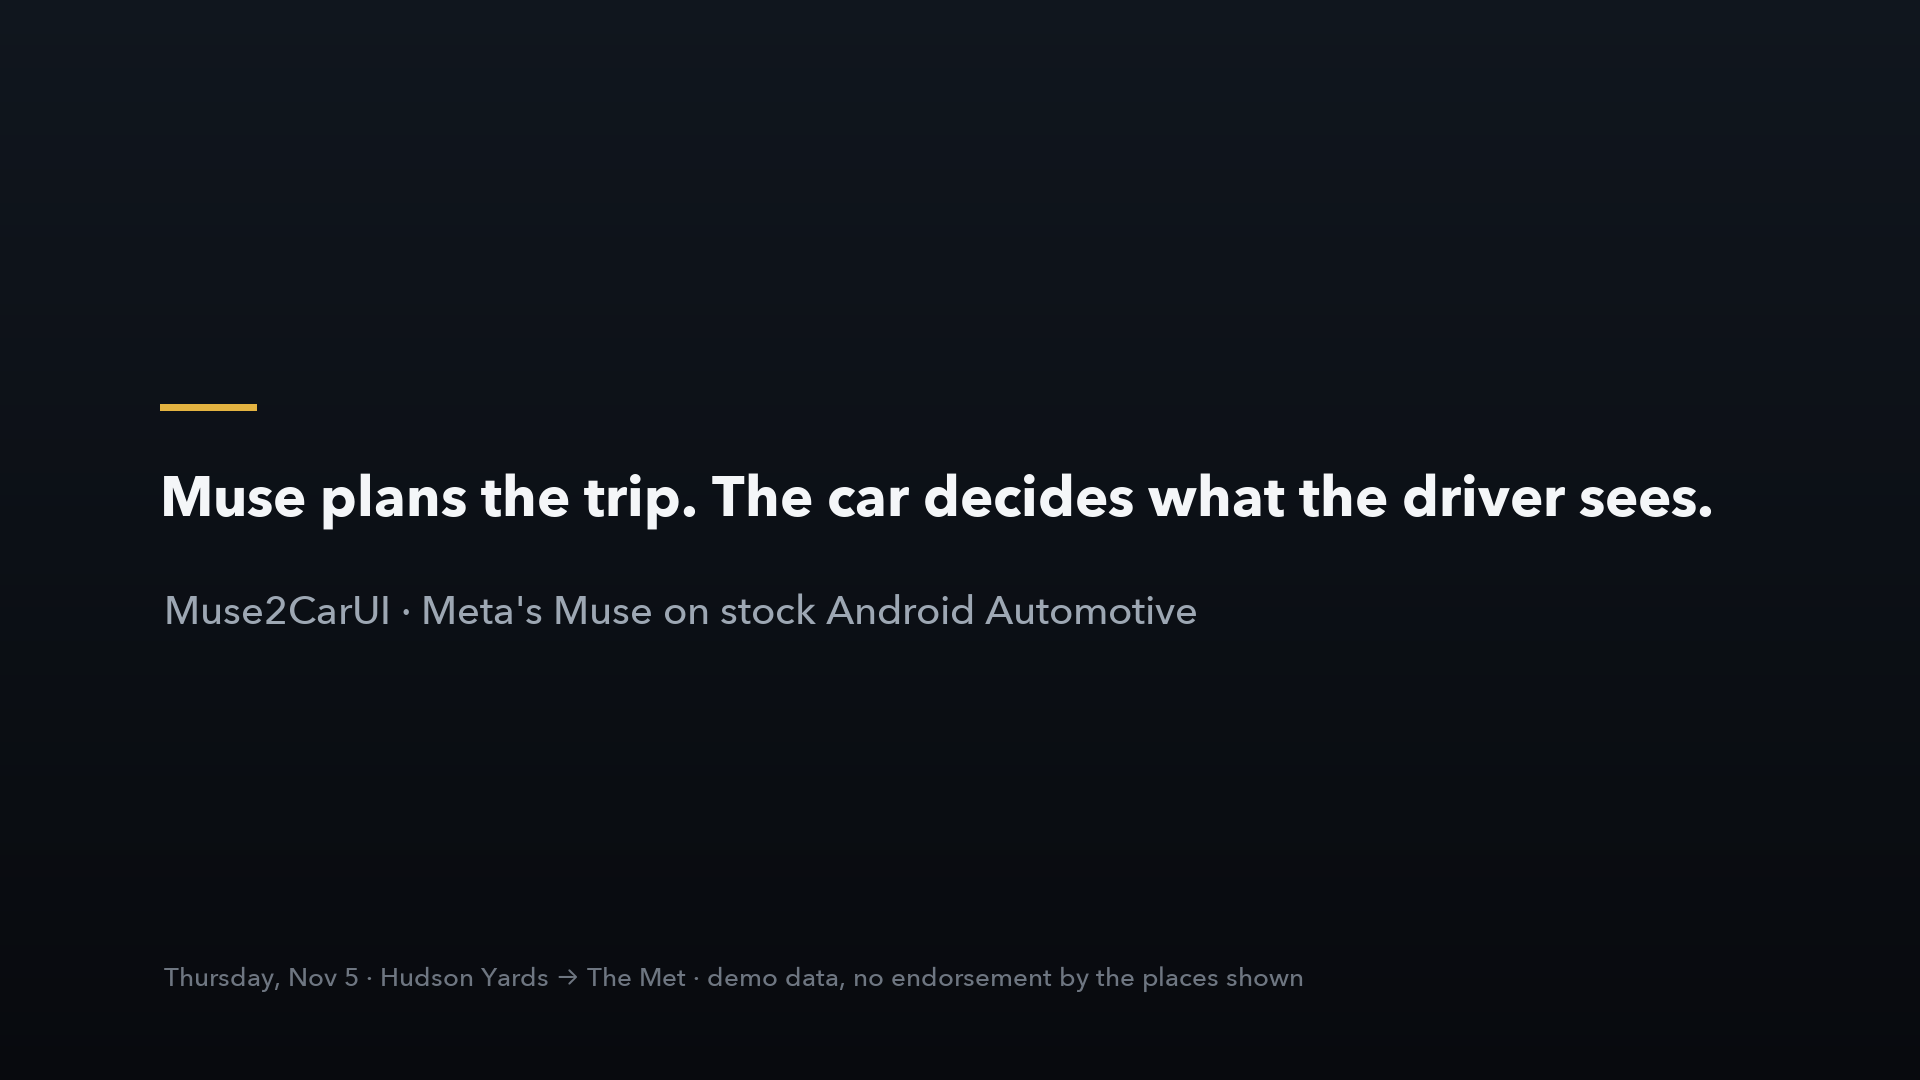
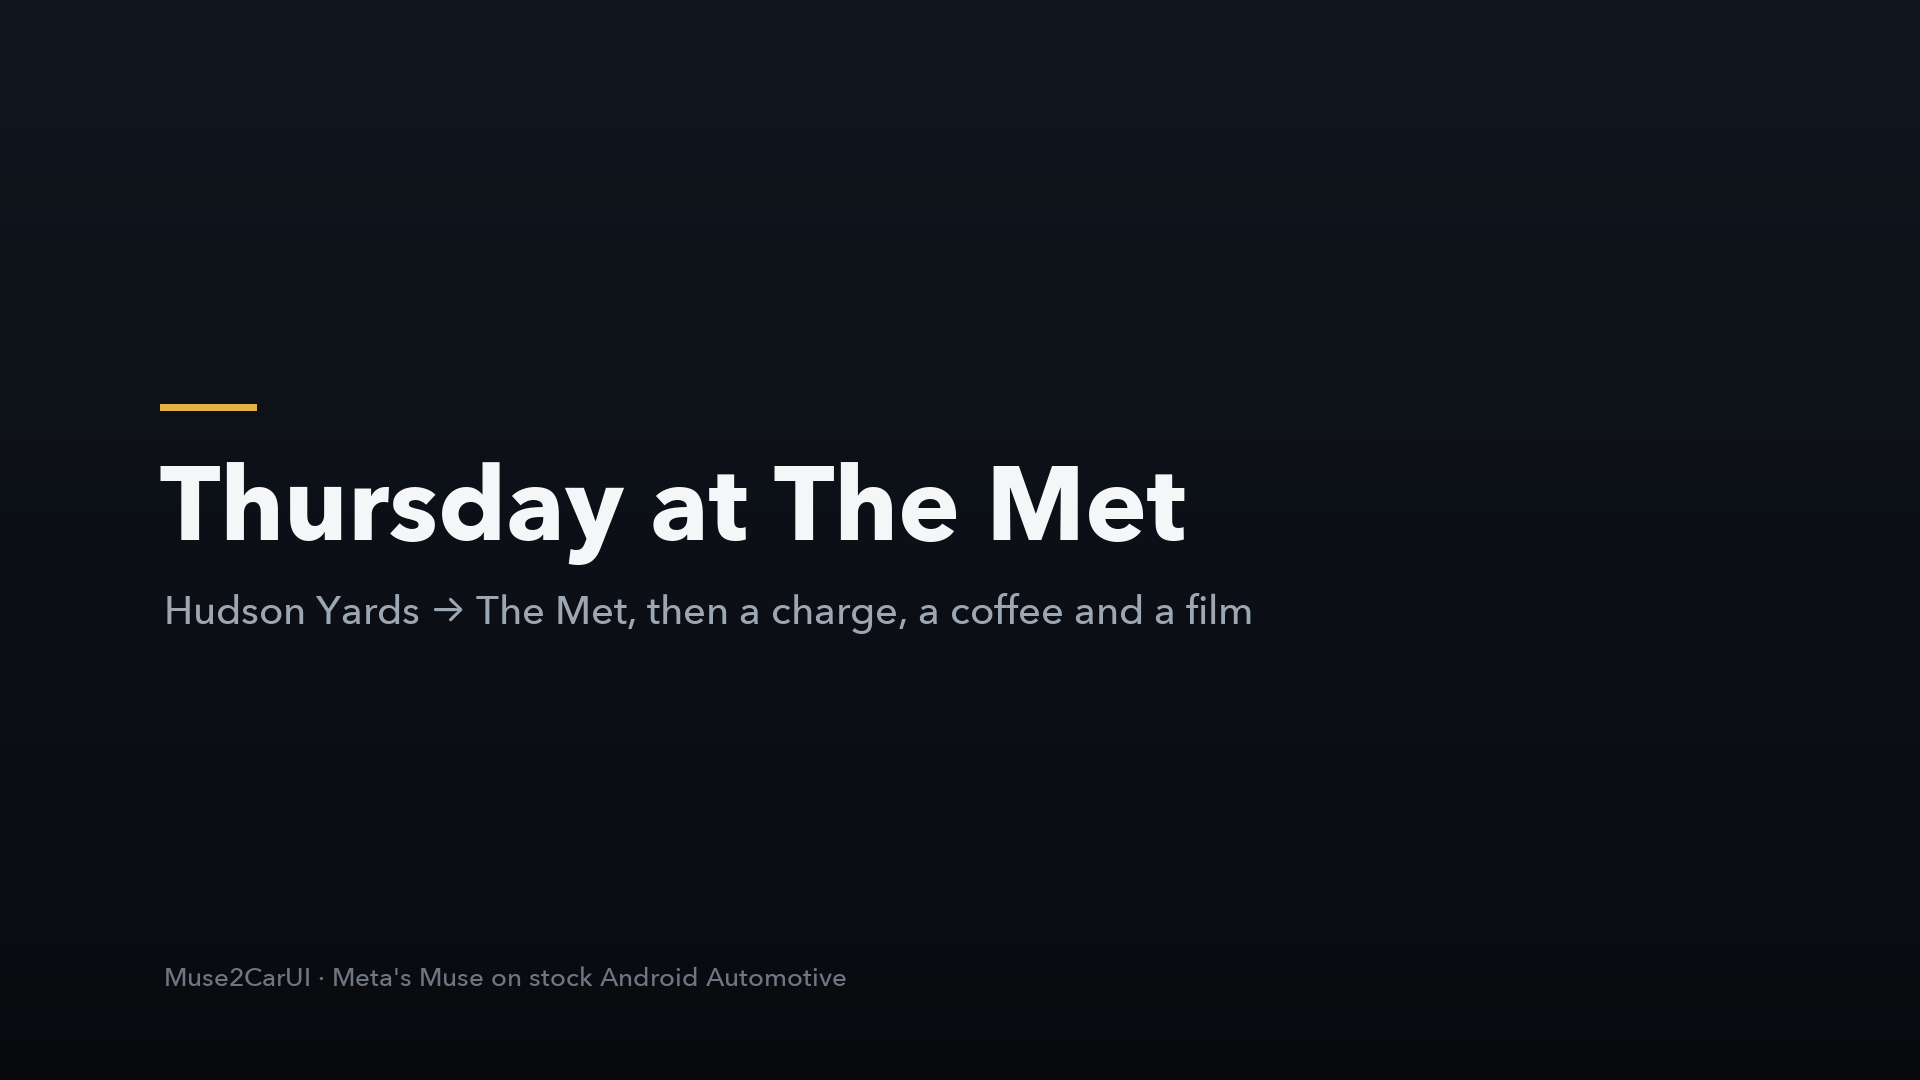
demo cards: preamble, closing diagram, disclaimer; lighter panel labels; chapter title

Changed region(s): [[0.0625, 0.4278, 0.9062, 0.5194], [0.0938, 0.8861, 0.6875, 0.9167], [0.0938, 0.55, 0.6562, 0.5806]]

diff --git a/scripts/render-demo-cards.py b/scripts/render-demo-cards.py
@@ -1,22 +1,29 @@
 #!/usr/bin/env python3
 # Copyright (C) 2026 Dart Technologies
 # Licensed under the Apache License, Version 2.0 — see scripts/check-build-coverage.py.
-"""Render the recorder's overlay PNGs: panel labels and per-scenario title cards.
+"""Render the recorder's overlay PNGs: panel labels, the corner disclaimer, title cards, and the
+preamble and outro cards it builds from frames of the recording itself.
 
-The ffmpeg used for recording may lack drawtext (no freetype), so text is rendered here once,
-committed under a2ui-automotive/demo/cards/, and overlaid as images by run-nyc-demo.py.
+The ffmpeg used for recording may lack drawtext (no freetype), so text is rendered here with
+Pillow and overlaid as images by run-nyc-demo.py. Labels, disclaimer and title cards are
+committed under a2ui-automotive/demo/cards/; preamble and outro cards are rendered per recording.
 
   render-demo-cards.py labels
+  render-demo-cards.py disclaimer --text T --out disclaimer.png
   render-demo-cards.py title --title T --subtitle S [--footer F] --out card.png
+  render-demo-cards.py preamble --style unsafe|useless|answer --caption C [--frame F]
+                                [--chip X] [--lock-text L] --out card.png
+  render-demo-cards.py outro --spec spec.json --out card.png
 """
 
 from __future__ import annotations
 
 import argparse
+import json
 import pathlib
 import sys
 
-from PIL import Image, ImageDraw, ImageFont
+from PIL import Image, ImageDraw, ImageEnhance, ImageFilter, ImageFont, ImageOps
 
 ROOT = pathlib.Path(__file__).resolve().parents[1]
 CARDS = ROOT / "a2ui-automotive/demo/cards"
@@ -24,8 +31,16 @@ FONTS = ["/System/Library/Fonts/Avenir Next.ttc",
          "/System/Library/Fonts/HelveticaNeue.ttc",
          "/usr/share/fonts/truetype/dejavu/DejaVuSans.ttf"]
 FACE = {"bold": 0, "demi": 2, "medium": 5}
-LABELS = {"driver": ("Driver display", (90, 169, 255)),
-          "passenger": ("Passenger display", (227, 179, 65))}
+W, H = 1920, 1080
+TEXT, MUTED, FAINT = (244, 246, 248), (157, 167, 179), (110, 118, 129)
+GOLD = (227, 179, 65)
+PARKED, DRIVING, ALERT = (38, 133, 84), (36, 87, 168), (205, 48, 48)  # the slim chip colours
+PANEL, EDGE = (21, 27, 35), (44, 53, 64)
+MUSE = (24, 119, 242)  # the text badge's accent; no logo artwork is drawn
+LABELS = {"driver": ("Driver", (90, 169, 255)), "passenger": ("Passenger", (227, 179, 65))}
+# The preamble frame: the driver display at 1280x720, centred, with room for a chip above it and
+# the caption below; the canvas's bottom-left corner stays free for the recorder's disclaimer.
+FRAME_BOX = (320, 132, 1280, 720)
 
 
 def font(size: int, face: str) -> ImageFont.FreeTypeFont:
@@ -71,35 +86,263 @@ def text_width(draw: ImageDraw.ImageDraw, text: str, size: int, face: str) -> fl
     return sum(draw.textlength(chunk, font=f) for chunk, f in runs(text, font(size, face), size))
 
 
+def centred(draw: ImageDraw.ImageDraw, cx: float, y: float, text: str, size: int, face: str,
+            fill) -> None:
+    draw_text(draw, (cx - text_width(draw, text, size, face) / 2, y), text, size, face, fill)
+
+
+def wrap(draw: ImageDraw.ImageDraw, text: str, size: int, face: str, width: float) -> list[str]:
+    lines: list[str] = []
+    for word in text.split():
+        if lines and text_width(draw, f"{lines[-1]} {word}", size, face) <= width:
+            lines[-1] = f"{lines[-1]} {word}"
+        else:
+            lines.append(word)
+    return lines
+
+
 def label(text: str, accent: tuple[int, int, int]) -> Image.Image:
-    face = font(24, "demi")
+    face = font(22, "medium")
     probe = ImageDraw.Draw(Image.new("RGBA", (1, 1)))
     left, top, right, bottom = probe.textbbox((0, 0), text, font=face)
-    image = Image.new("RGBA", (right - left + 26, 34), (0, 0, 0, 0))
+    image = Image.new("RGBA", (right - left + 22, 34), (0, 0, 0, 0))
     draw = ImageDraw.Draw(image)
-    draw.ellipse((0, 12, 10, 22), fill=accent + (255,))
-    draw.text((22 - left, (34 - (bottom - top)) // 2 - top), text, font=face,
-              fill=(201, 209, 217, 255))
+    draw.ellipse((0, 13, 8, 21), fill=accent + (255,))
+    draw.text((18 - left, (34 - (bottom - top)) // 2 - top), text, font=face,
+              fill=(160, 168, 178, 255))
+    return image
+
+
+def disclaimer(text: str) -> Image.Image:
+    """One small, low-contrast line for the canvas margin."""
+    face = font(18, "medium")
+    probe = ImageDraw.Draw(Image.new("RGBA", (1, 1)))
+    left, top, right, bottom = probe.textbbox((0, 0), text, font=face)
+    image = Image.new("RGBA", (right - left + 4, bottom - top + 8), (0, 0, 0, 0))
+    ImageDraw.Draw(image).text((2 - left, 4 - top), text, font=face, fill=(104, 112, 122, 255))
+    return image
+
+
+def backdrop() -> Image.Image:
+    image = Image.new("RGB", (W, H))
+    draw = ImageDraw.Draw(image)
+    top, bottom = (16, 22, 30), (8, 10, 14)
+    for row in range(H):
+        k = row / (H - 1)
+        draw.line([(0, row), (W, row)],
+                  fill=tuple(round(a + (b - a) * k) for a, b in zip(top, bottom)))
     return image
 
 
 def title_card(title: str, subtitle: str, footer: str) -> Image.Image:
-    width, height = 1920, 1080
-    image = Image.new("RGB", (width, height))
+    image = backdrop()
     draw = ImageDraw.Draw(image)
-    top, bottom = (16, 22, 30), (8, 10, 14)
-    for row in range(height):
-        k = row / (height - 1)
-        draw.line([(0, row), (width, row)],
-                  fill=tuple(round(a + (b - a) * k) for a, b in zip(top, bottom)))
-    draw.rectangle((160, 404, 256, 410), fill=(227, 179, 65))
+    draw.rectangle((160, 404, 256, 410), fill=GOLD)
     size = 104
-    while size > 48 and text_width(draw, title, size, "bold") > width - 320:
+    while size > 48 and text_width(draw, title, size, "bold") > W - 320:
         size -= 2  # fit long titles within the margins
-    draw_text(draw, (160, 436 + (104 - size) // 2), title, size, "bold", (244, 246, 248))
-    draw_text(draw, (164, 584), subtitle, 40, "medium", (157, 167, 179))
+    draw_text(draw, (160, 436 + (104 - size) // 2), title, size, "bold", TEXT)
+    draw_text(draw, (164, 584), subtitle, 40, "medium", MUTED)
     if footer:
-        draw_text(draw, (164, 960), footer, 26, "medium", (110, 118, 129))
+        draw_text(draw, (164, 960), footer, 26, "medium", FAINT)
+    return image
+
+
+def rounded_mask(size: tuple[int, int], radius: int) -> Image.Image:
+    mask = Image.new("L", size, 0)
+    ImageDraw.Draw(mask).rounded_rectangle((0, 0, size[0] - 1, size[1] - 1), radius, fill=255)
+    return mask
+
+
+def open_frame(path: str | None, size: tuple[int, int]) -> Image.Image | None:
+    """The frame scaled to cover size, or None when it is missing or unreadable."""
+    if not path:
+        return None
+    try:
+        with Image.open(path) as source:
+            frame = source.convert("RGB")
+    except (OSError, ValueError):
+        return None
+    return ImageOps.fit(frame, size, Image.LANCZOS)
+
+
+def placeholder(size: tuple[int, int]) -> Image.Image:
+    return Image.new("RGB", size, PANEL)
+
+
+def framed(image: Image.Image, tile: Image.Image, xy: tuple[int, int], radius: int,
+           outline=EDGE, width: int = 2, shadow: bool = False) -> None:
+    """tile pasted onto image at xy with rounded corners, an outline and an optional shadow."""
+    x, y = xy
+    w, h = tile.size
+    if shadow:
+        layer = Image.new("RGBA", image.size, (0, 0, 0, 0))
+        ImageDraw.Draw(layer).rounded_rectangle((x + 8, y + 18, x + w - 8, y + h + 14), radius,
+                                                fill=(0, 0, 0, 170))
+        blurred = layer.filter(ImageFilter.GaussianBlur(22))
+        image.paste(Image.alpha_composite(image.convert("RGBA"), blurred).convert("RGB"))
+    image.paste(tile, xy, rounded_mask(tile.size, radius))
+    ImageDraw.Draw(image).rounded_rectangle((x, y, x + w - 1, y + h - 1), radius,
+                                            outline=outline, width=width)
+
+
+def chip(draw: ImageDraw.ImageDraw, xy: tuple[int, int], text: str, fill, size: int = 26) -> None:
+    """A status pill: a dot and the text, as the car's slim Parked/Driving chip draws it."""
+    x, y = xy
+    face = font(size, "demi")
+    height, pad, dot = size + 22, 22, 10
+    width = pad + dot + 12 + draw.textlength(text, font=face) + pad
+    draw.rounded_rectangle((x, y, x + width, y + height), height // 2, fill=fill)
+    mid = y + height / 2
+    draw.ellipse((x + pad, mid - dot / 2, x + pad + dot, mid + dot / 2), fill=TEXT)
+    draw.text((x + pad + dot + 12, mid), text, font=face, fill=TEXT, anchor="lm")
+
+
+def lock(draw: ImageDraw.ImageDraw, cx: float, cy: float, fill=(236, 239, 242)) -> None:
+    """A padlock drawn from primitives, centred on (cx, cy)."""
+    body = (cx - 62, cy - 26, cx + 62, cy + 70)
+    radius, stroke = 40, 16
+    top = body[1] - 6
+    draw.arc((cx - radius, top - radius - 30, cx + radius, top + radius - 30), 180, 360,
+             fill=fill, width=stroke)
+    for side in (-1, 1):
+        x = cx + side * (radius - stroke / 2)
+        draw.line([(x, top - 30), (x, body[1] + 4)], fill=fill, width=stroke)
+    draw.rounded_rectangle(body, 14, fill=fill)
+    draw.ellipse((cx - 11, cy + 6, cx + 11, cy + 28), fill=(40, 44, 50))
+    draw.rectangle((cx - 4, cy + 24, cx + 4, cy + 46), fill=(40, 44, 50))
+
+
+def preamble_card(style: str, caption: str, frame_path: str | None, chip_text: str,
+                  lock_text: str) -> Image.Image:
+    """One problem-statement card around a real driver-display frame.
+
+    unsafe   the parked full screen, tinted red under a red driving chip;
+    useless  the same frame greyed out under a lock and lock_text;
+    answer   the real pruned driving frame, untouched.
+    """
+    image = backdrop()
+    x, y, w, h = FRAME_BOX
+    frame = open_frame(frame_path, (w, h)) or placeholder((w, h))
+    outline, chip_fill = EDGE, DRIVING
+    if style == "unsafe":
+        frame = Image.blend(frame, Image.new("RGB", frame.size, (190, 28, 28)), 0.17)
+        outline, chip_fill = ALERT, ALERT
+    elif style == "useless":
+        frame = ImageEnhance.Brightness(ImageOps.grayscale(frame).convert("RGB")).enhance(0.24)
+        frame = frame.filter(ImageFilter.GaussianBlur(3))
+        chip_fill = (72, 80, 92)
+    elif style != "answer":
+        raise SystemExit(f"unknown preamble style {style!r}")
+    framed(image, frame, (x, y), 22, outline=outline, width=3, shadow=True)
+    draw = ImageDraw.Draw(image)
+    if style == "useless":
+        lock(draw, x + w / 2, y + h / 2 - 60)
+        if lock_text:
+            centred(draw, x + w / 2, y + h / 2 + 52, lock_text, 40, "medium", TEXT)
+    if chip_text:
+        chip(draw, (x, y - 70), chip_text, chip_fill)
+    size = 56
+    while size > 36 and text_width(draw, caption, size, "bold") > W - 240:
+        size -= 2
+    centred(draw, W / 2, y + h + 64 + (56 - size) // 2, caption, size, "bold", TEXT)
+    return image
+
+
+def outro_card(spec: dict) -> Image.Image:
+    """The closing card: the journey as vehicle-state segments with real thumbnails of each beat
+    (driver above, passenger below the driving segments), the architecture, and the footer."""
+    image = backdrop()
+    draw = ImageDraw.Draw(image)
+    left, right = 96, W - 96
+    segments = spec["segments"]
+    slots = sum(max(1, int(s.get("slots", 1))) for s in segments)
+    slot = (right - left) / slots
+    spans, cursor = [], float(left)
+    for segment in segments:
+        width = slot * max(1, int(segment.get("slots", 1)))
+        spans.append((cursor, cursor + width))
+        cursor += width
+
+    draw_text(draw, (left, 70), spec.get("journeyTitle", "THE DRIVE"), 20, "demi", GOLD)
+    thumb_w = min(232, int(slot) - 24)
+    thumb_h = round(thumb_w * 9 / 16)
+    thumbs_top, strip_top = 112, 296
+    by_segment: dict[int, list[dict]] = {}
+    for beat in spec.get("driver", []):
+        by_segment.setdefault(int(beat["segment"]), []).append(beat)
+    for index, beats in by_segment.items():
+        start, end = spans[index]
+        step = (end - start) / len(beats)
+        for n, beat in enumerate(beats):
+            cx = start + step * (n + 0.5)
+            tile = open_frame(beat.get("image"), (thumb_w, thumb_h)) or placeholder(
+                (thumb_w, thumb_h))
+            framed(image, tile, (round(cx - thumb_w / 2), thumbs_top), 10)
+            centred(draw, cx, thumbs_top + thumb_h + 12, beat["label"], 20, "medium", MUTED)
+    for (start, end), segment in zip(spans, segments):
+        fill = PARKED if segment["state"] == "park" else DRIVING
+        draw.rounded_rectangle((start + 3, strip_top, end - 3, strip_top + 44), 22, fill=fill)
+        centred(draw, (start + end) / 2, strip_top + 9, segment["label"], 20, "demi", TEXT)
+    pas_w, pas_h = 72, 108
+    for beat in spec.get("passenger", []):
+        start, end = spans[int(beat["segment"])]
+        text = beat["label"]
+        total = pas_w + 14 + text_width(draw, text, 20, "medium")
+        px = round((start + end) / 2 - total / 2)
+        py = strip_top + 44 + 18
+        tile = open_frame(beat.get("image"), (pas_w, pas_h)) or placeholder((pas_w, pas_h))
+        framed(image, tile, (px, py), 8)
+        draw_text(draw, (px + pas_w + 14, py + pas_h / 2 - 14), text, 20, "medium", MUTED)
+
+    draw_text(draw, (left, 540), spec.get("architectureTitle", "THE ARCHITECTURE"), 20, "demi",
+              GOLD)
+    boxes = spec.get("architecture", [])
+    gap = 64
+    box_w = ((right - left) - gap * (len(boxes) - 1)) / max(1, len(boxes))
+    box_top, box_h, pad = 580, 214, 22
+    icon = None
+    if spec.get("icon") and pathlib.Path(spec["icon"]).is_file():
+        with Image.open(spec["icon"]) as source:
+            icon = source.convert("RGBA").resize((24, 24), Image.LANCZOS)
+    for n, box in enumerate(boxes):
+        bx = left + n * (box_w + gap)
+        draw.rounded_rectangle((bx, box_top, bx + box_w, box_top + box_h), 16, fill=PANEL,
+                               outline=EDGE, width=2)
+        ty = box_top + pad
+        if box.get("badge"):
+            face = font(22, "demi")
+            inner = (34 if icon else 0) + draw.textlength(box["badge"], font=face)
+            draw.rounded_rectangle((bx + pad, ty, bx + pad + inner + 28, ty + 40), 20, fill=MUSE)
+            tx = bx + pad + 14
+            if icon:
+                image.paste(icon, (round(tx), ty + 8), icon)
+                tx += 34
+            draw.text((tx, ty + 20), box["badge"], font=face, fill=TEXT, anchor="lm")
+            if box.get("tag"):
+                draw_text(draw, (bx + pad + inner + 40, ty + 6), box["tag"], 20, "medium",
+                          MUTED)
+            ty += 56
+        if box.get("title"):
+            for line in wrap(draw, box["title"], 25, "demi", box_w - 2 * pad):
+                draw_text(draw, (bx + pad, ty), line, 25, "demi", TEXT)
+                ty += 32
+            ty += 8
+        for item in box.get("lines", []):
+            for line in wrap(draw, item, 20, "medium", box_w - 2 * pad):
+                draw_text(draw, (bx + pad, ty), line, 20, "medium", MUTED)
+                ty += 27
+        if n < len(boxes) - 1:
+            ay = box_top + box_h / 2
+            ax0, ax1 = bx + box_w + 12, bx + box_w + gap - 12
+            draw.line([(ax0, ay), (ax1 - 10, ay)], fill=FAINT, width=3)
+            draw.polygon([(ax1, ay), (ax1 - 14, ay - 8), (ax1 - 14, ay + 8)], fill=FAINT)
+
+    footer = spec.get("footer", [])
+    if footer:
+        draw_text(draw, (left, 872), footer[0], 46, "bold", TEXT)
+    if len(footer) > 1:
+        draw_text(draw, (left + 2, 944), footer[1], 26, "medium", MUTED)
     return image
 
 
@@ -108,11 +351,24 @@ def main() -> int:
                                      formatter_class=argparse.RawDescriptionHelpFormatter)
     sub = parser.add_subparsers(dest="command", required=True)
     sub.add_parser("labels")
+    note = sub.add_parser("disclaimer")
+    note.add_argument("--text", required=True)
+    note.add_argument("--out", type=pathlib.Path, required=True)
     title = sub.add_parser("title")
     title.add_argument("--title", required=True)
     title.add_argument("--subtitle", required=True)
     title.add_argument("--footer", default="")
     title.add_argument("--out", type=pathlib.Path, required=True)
+    pre = sub.add_parser("preamble")
+    pre.add_argument("--style", required=True, choices=["unsafe", "useless", "answer"])
+    pre.add_argument("--caption", required=True)
+    pre.add_argument("--frame", help="driver-display frame; a dark panel stands in if unreadable")
+    pre.add_argument("--chip", default="")
+    pre.add_argument("--lock-text", default="")
+    pre.add_argument("--out", type=pathlib.Path, required=True)
+    outro = sub.add_parser("outro")
+    outro.add_argument("--spec", type=pathlib.Path, required=True)
+    outro.add_argument("--out", type=pathlib.Path, required=True)
     args = parser.parse_args()
     if args.command == "labels":
         CARDS.mkdir(parents=True, exist_ok=True)
@@ -120,10 +376,17 @@ def main() -> int:
             path = CARDS / f"label-{name}.png"
             label(text, accent).save(path, format="PNG", optimize=True)
             print(f"wrote {path}")
+        return 0
+    if args.command == "disclaimer":
+        image = disclaimer(args.text)
+    elif args.command == "title":
+        image = title_card(args.title, args.subtitle, args.footer)
+    elif args.command == "preamble":
+        image = preamble_card(args.style, args.caption, args.frame, args.chip, args.lock_text)
     else:
-        title_card(args.title, args.subtitle, args.footer).save(args.out, format="PNG",
-                                                                 optimize=True)
-        print(f"wrote {args.out}")
+        image = outro_card(json.loads(args.spec.read_text(encoding="utf-8")))
+    image.save(args.out, format="PNG", optimize=True)
+    print(f"wrote {args.out}")
     return 0
 
 
